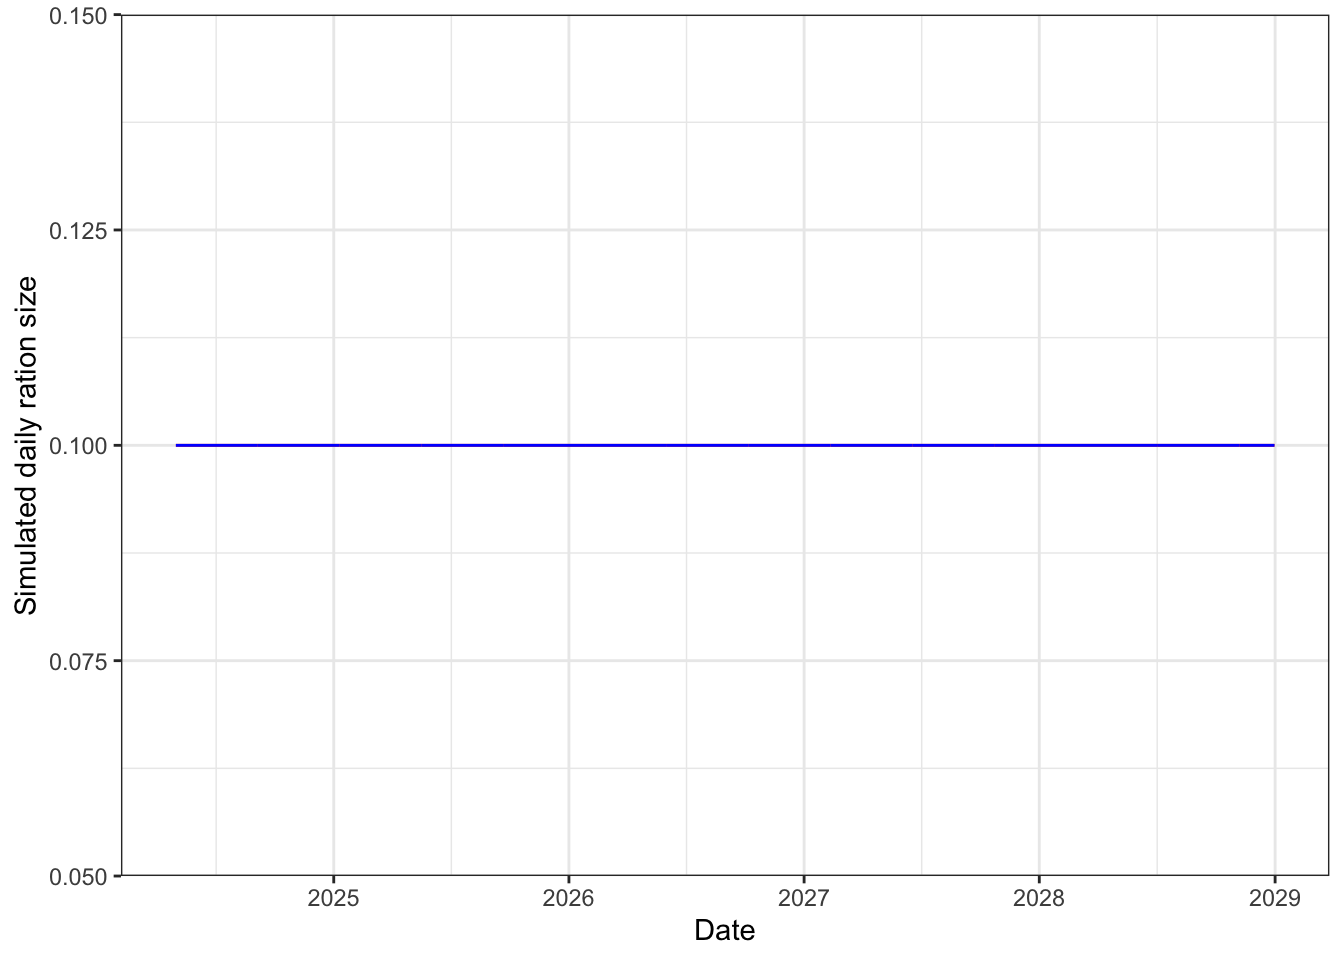
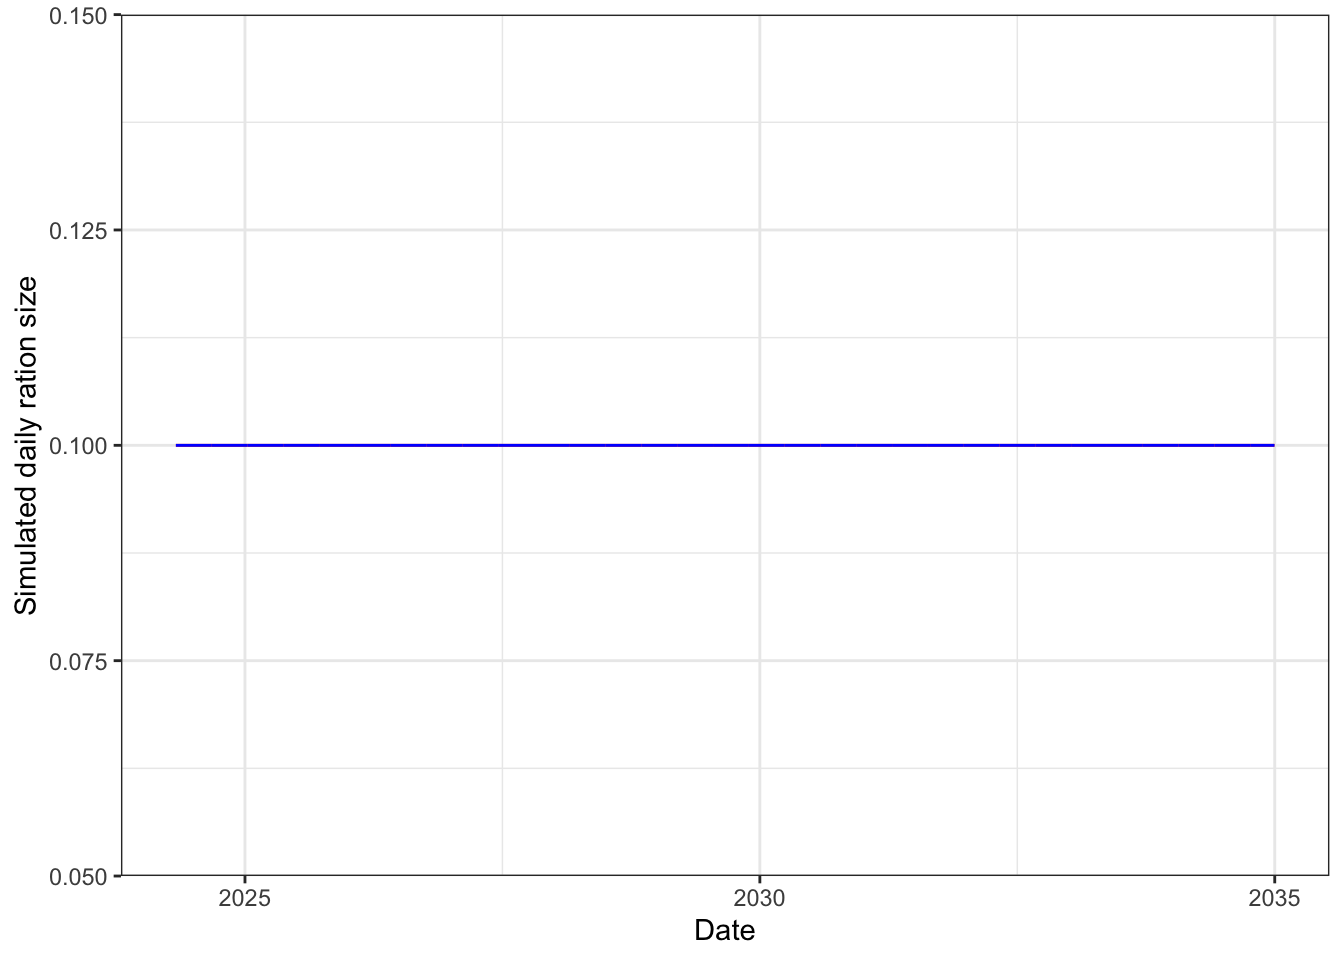
extend to 10+ years

diff --git a/docs/Habitat.html b/docs/Habitat.html
@@ -443,7 +443,7 @@ octocat-wave{0%,100%{transform:rotate(0)}20%,60%{transform:rotate(-25deg)}40%,80
 <span id="cb1-2"><a href="#cb1-2" aria-hidden="true" tabindex="-1"></a><span class="fu">set.seed</span>(<span class="dv">123</span>)</span>
 <span id="cb1-3"><a href="#cb1-3" aria-hidden="true" tabindex="-1"></a></span>
 <span id="cb1-4"><a href="#cb1-4" aria-hidden="true" tabindex="-1"></a><span class="co"># 1. Create a date range (1 year)</span></span>
-<span id="cb1-5"><a href="#cb1-5" aria-hidden="true" tabindex="-1"></a>dates <span class="ot">&lt;-</span> <span class="fu">seq</span>(<span class="fu">as.Date</span>(<span class="st">"2024-05-01"</span>), <span class="fu">as.Date</span>(<span class="st">"2028-12-31"</span>), <span class="at">by=</span><span class="st">"day"</span>)</span>
+<span id="cb1-5"><a href="#cb1-5" aria-hidden="true" tabindex="-1"></a>dates <span class="ot">&lt;-</span> <span class="fu">seq</span>(<span class="fu">as.Date</span>(<span class="st">"2024-05-01"</span>), <span class="fu">as.Date</span>(<span class="st">"2034-12-31"</span>), <span class="at">by=</span><span class="st">"day"</span>)</span>
 <span id="cb1-6"><a href="#cb1-6" aria-hidden="true" tabindex="-1"></a>n <span class="ot">&lt;-</span> <span class="fu">length</span>(dates)</span>
 <span id="cb1-7"><a href="#cb1-7" aria-hidden="true" tabindex="-1"></a>doy <span class="ot">&lt;-</span> <span class="fu">as.numeric</span>(<span class="fu">format</span>(dates, <span class="st">"%j"</span>)) <span class="co"># Day of year</span></span>
 <span id="cb1-8"><a href="#cb1-8" aria-hidden="true" tabindex="-1"></a></span>
@@ -628,16 +628,16 @@ octocat-wave{0%,100%{transform:rotate(0)}20%,60%{transform:rotate(-25deg)}40%,80
 <div class="code-copy-outer-scaffold"><div class="sourceCode cell-code" id="cb7"><pre class="sourceCode r code-with-copy"><code class="sourceCode r"><span id="cb7-1"><a href="#cb7-1" aria-hidden="true" tabindex="-1"></a><span class="fu">str</span>(habitat_df)</span></code></pre></div><button title="Copy to Clipboard" class="code-copy-button"><i class="bi"></i></button></div>
 </details>
 <div class="cell-output cell-output-stdout">
-<pre><code>tibble [1,706 × 9] (S3: tbl_df/tbl/data.frame)
- $ date       : Date[1:1706], format: "2024-05-01" "2024-05-02" ...
- $ doy        : num [1:1706] 122 123 124 125 126 127 128 129 130 131 ...
- $ dayofsim   : int [1:1706] 1 2 3 4 5 6 7 8 9 10 ...
- $ temp_warm  : num [1:1706] 16.2 16.4 16.6 16.8 17.1 17.3 17.5 17.7 17.9 18.1 ...
- $ temp_cold  : num [1:1706] 9.7 9.8 10 10.1 10.2 10.4 10.5 10.6 10.7 10.9 ...
- $ ration_warm: num [1:1706] 0.1 0.1 0.1 0.1 0.1 0.1 0.1 0.1 0.1 0.1 ...
- $ ration_cold: num [1:1706] 0.1 0.1 0.1 0.1 0.1 0.1 0.1 0.1 0.1 0.1 ...
- $ pcmax_warm : num [1:1706] 0.5 0.5 0.5 0.5 0.5 0.5 0.5 0.5 0.5 0.5 ...
- $ pcmax_cold : num [1:1706] 0.5 0.5 0.5 0.5 0.5 0.5 0.5 0.5 0.5 0.5 ...</code></pre>
+<pre><code>tibble [3,897 × 9] (S3: tbl_df/tbl/data.frame)
+ $ date       : Date[1:3897], format: "2024-05-01" "2024-05-02" ...
+ $ doy        : num [1:3897] 122 123 124 125 126 127 128 129 130 131 ...
+ $ dayofsim   : int [1:3897] 1 2 3 4 5 6 7 8 9 10 ...
+ $ temp_warm  : num [1:3897] 16.2 16.4 16.6 16.8 17.1 17.3 17.5 17.7 17.9 18.1 ...
+ $ temp_cold  : num [1:3897] 9.7 9.8 10 10.1 10.2 10.4 10.5 10.6 10.7 10.9 ...
+ $ ration_warm: num [1:3897] 0.1 0.1 0.1 0.1 0.1 0.1 0.1 0.1 0.1 0.1 ...
+ $ ration_cold: num [1:3897] 0.1 0.1 0.1 0.1 0.1 0.1 0.1 0.1 0.1 0.1 ...
+ $ pcmax_warm : num [1:3897] 0.5 0.5 0.5 0.5 0.5 0.5 0.5 0.5 0.5 0.5 ...
+ $ pcmax_cold : num [1:3897] 0.5 0.5 0.5 0.5 0.5 0.5 0.5 0.5 0.5 0.5 ...</code></pre>
 </div>
 <details class="code-fold">
 <summary>Code</summary>
@@ -1186,7 +1186,7 @@ octocat-wave{0%,100%{transform:rotate(0)}20%,60%{transform:rotate(-25deg)}40%,80
 <span id="cb12-37"><a href="#cb12-37" aria-hidden="true" tabindex="-1"></a><span class="fu">set.seed</span>(<span class="dv">123</span>)</span>
 <span id="cb12-38"><a href="#cb12-38" aria-hidden="true" tabindex="-1"></a></span>
 <span id="cb12-39"><a href="#cb12-39" aria-hidden="true" tabindex="-1"></a><span class="co"># 1. Create a date range (1 year)</span></span>
-<span id="cb12-40"><a href="#cb12-40" aria-hidden="true" tabindex="-1"></a>dates <span class="ot">&lt;-</span> <span class="fu">seq</span>(<span class="fu">as.Date</span>(<span class="st">"2024-05-01"</span>), <span class="fu">as.Date</span>(<span class="st">"2028-12-31"</span>), <span class="at">by=</span><span class="st">"day"</span>)</span>
+<span id="cb12-40"><a href="#cb12-40" aria-hidden="true" tabindex="-1"></a>dates <span class="ot">&lt;-</span> <span class="fu">seq</span>(<span class="fu">as.Date</span>(<span class="st">"2024-05-01"</span>), <span class="fu">as.Date</span>(<span class="st">"2034-12-31"</span>), <span class="at">by=</span><span class="st">"day"</span>)</span>
 <span id="cb12-41"><a href="#cb12-41" aria-hidden="true" tabindex="-1"></a>n <span class="ot">&lt;-</span> <span class="fu">length</span>(dates)</span>
 <span id="cb12-42"><a href="#cb12-42" aria-hidden="true" tabindex="-1"></a>doy <span class="ot">&lt;-</span> <span class="fu">as.numeric</span>(<span class="fu">format</span>(dates, <span class="st">"%j"</span>)) <span class="co"># Day of year</span></span>
 <span id="cb12-43"><a href="#cb12-43" aria-hidden="true" tabindex="-1"></a></span>
